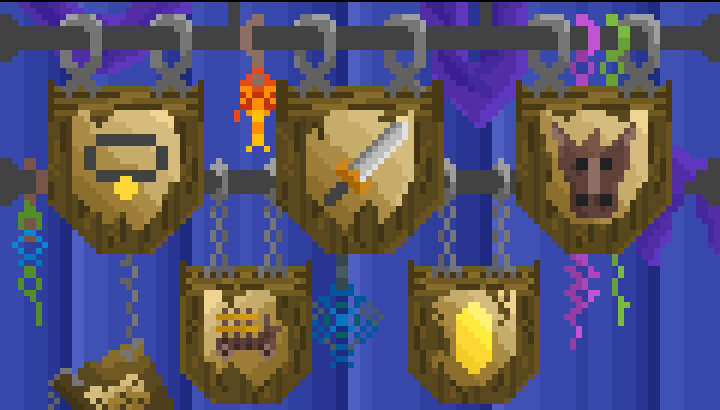
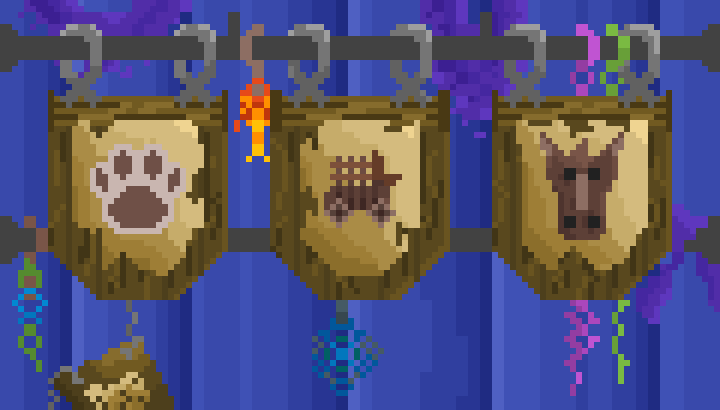
add new shop nav image and hotspots

diff --git a/lib/views/shop/shop_view.dart b/lib/views/shop/shop_view.dart
@@ -78,21 +78,20 @@ class _ShopState extends State<ShopView> {
 
   // Calculates the click hotspots for the shop navigation
   void calculateHotspots() {
-    int largeShieldBufferX = 35;
+    int largeShieldBufferX = 25;
     int largeShieldBufferY = 35;
-    int smallShieldBufferX = 35;
-    int smallShieldBufferY = 25;
+
     // The different menu icon hotspots on the right side of the shop
     menuItems = {
       // List elements are: X coord1, Y coord1, X coord2, Y coord2
-      ItemDetails.horseKey: [
-        navImageWidth/1.23 - largeShieldBufferX, navImageHeight/3 - largeShieldBufferY, navImageWidth/1.23 + largeShieldBufferX, navImageHeight/3 + largeShieldBufferY
+      ItemDetails.petKey: [
+        navImageWidth/5.04 - largeShieldBufferX, navImageHeight/2.05 - largeShieldBufferY, navImageWidth/5.04 + largeShieldBufferX, navImageHeight/2.05 + largeShieldBufferY
       ],
       ItemDetails.cartKey: [
-        navImageWidth/2.41 - smallShieldBufferX, navImageHeight/1.2 - smallShieldBufferY, navImageWidth/2.41 + smallShieldBufferX, navImageHeight/1.2 + 20
+        navImageWidth/1.87 - largeShieldBufferX, navImageHeight/2.05 - largeShieldBufferY, navImageWidth/1.87 + largeShieldBufferX, navImageHeight/2.05 + largeShieldBufferY
       ],
-      ItemDetails.petKey: [
-        navImageWidth/5.75 - largeShieldBufferX, navImageHeight/3 - largeShieldBufferY, navImageWidth/5.75 + largeShieldBufferX, navImageHeight/3 + largeShieldBufferY
+      ItemDetails.horseKey: [
+        navImageWidth/1.16 - largeShieldBufferX, navImageHeight/2.05 - largeShieldBufferY, navImageWidth/1.16 + largeShieldBufferX, navImageHeight/2.05 + largeShieldBufferY
       ],
     };
   }
